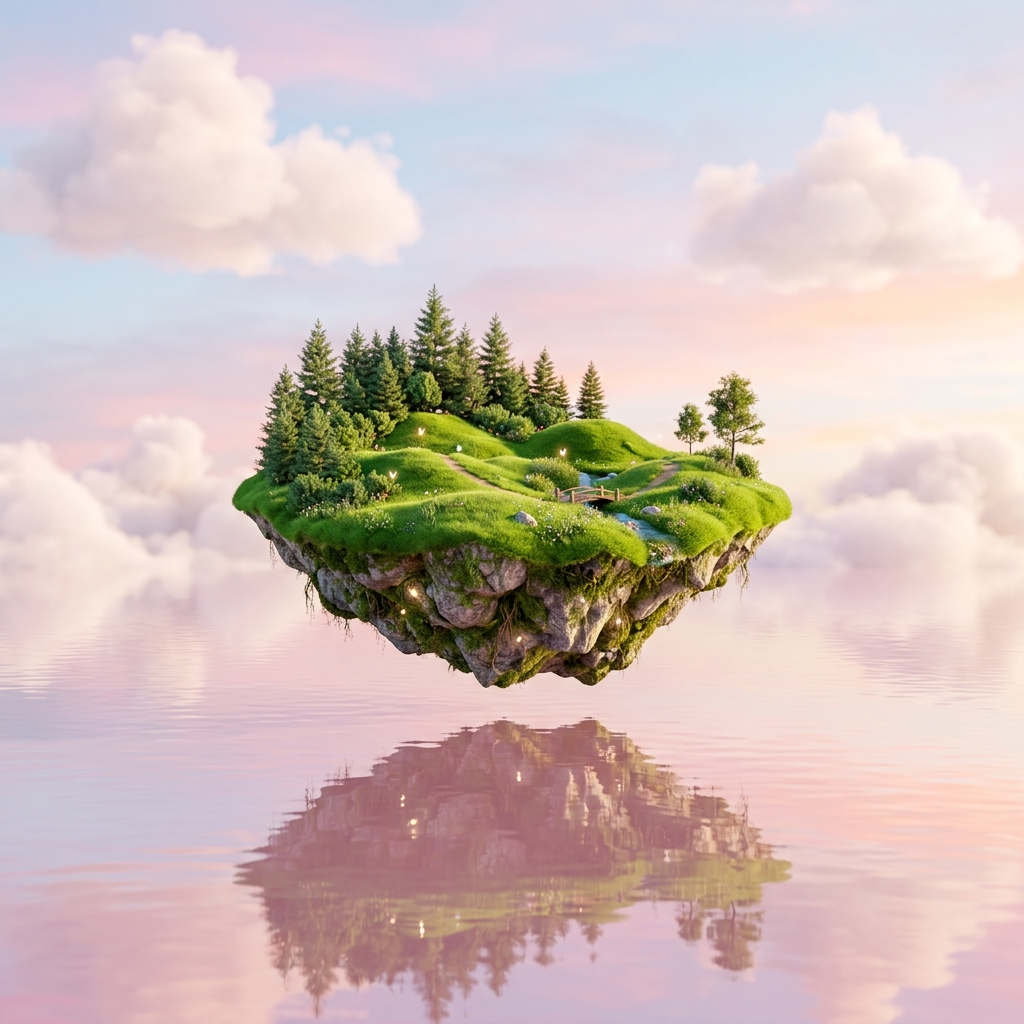
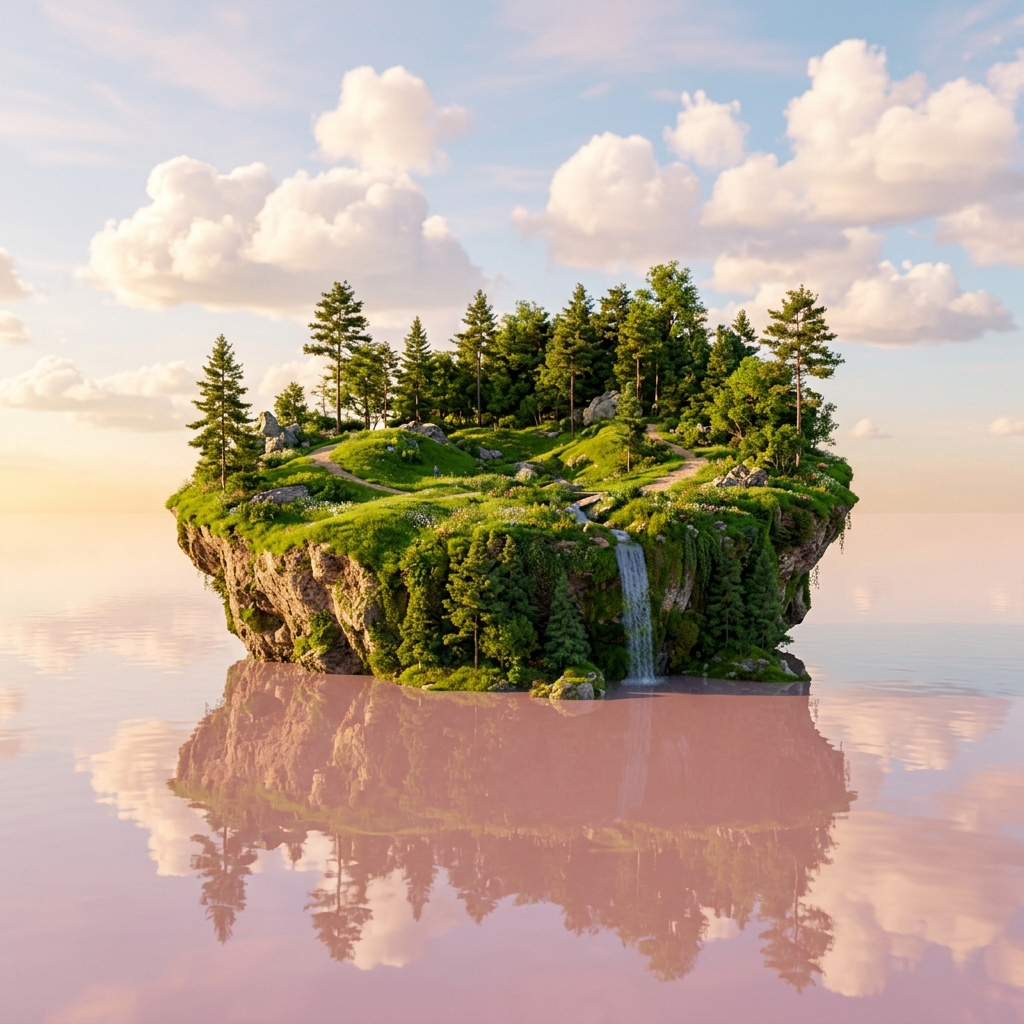
fix(waitlist): HD background image, centered email, fixed alignment and padding

diff --git a/src/components/auth/WaitlistGate.tsx b/src/components/auth/WaitlistGate.tsx
@@ -101,31 +101,22 @@ export function WaitlistGate({ children }: { children: React.ReactNode }) {
         fontFamily: "'Inter', -apple-system, BlinkMacSystemFont, sans-serif",
         userSelect: 'none'
       }}>
-        {/* Background Image — Light dreamy landscape */}
+        {/* Background Image — High quality, sharp, no blur */}
         <div style={{ position: 'absolute', inset: 0, zIndex: 0 }}>
           <img 
             src="/waitlist-bg.png" 
             alt="Background" 
-            style={{ width: '100%', height: '100%', objectFit: 'cover' }}
+            style={{
+              width: '100%', height: '100%', objectFit: 'cover',
+              imageRendering: 'auto'
+            }}
           />
-          {/* Soft white vignette overlay to blend with card */}
+          {/* Very subtle edge fade only — keep image sharp and vivid */}
           <div style={{
             position: 'absolute', inset: 0,
-            background: 'radial-gradient(circle at center, rgba(255,255,255,0.15) 0%, rgba(255,255,255,0.5) 60%, rgba(245,240,255,0.85) 100%)'
-          }} />
-          <div style={{
-            position: 'absolute', inset: 0,
-            background: 'linear-gradient(to bottom, rgba(255,255,255,0.3) 0%, transparent 40%, rgba(245,240,255,0.6) 100%)'
+            background: 'radial-gradient(ellipse 120% 120% at center, transparent 40%, rgba(255,255,255,0.35) 85%, rgba(248,245,255,0.6) 100%)'
           }} />
         </div>
-
-        {/* Soft ambient glow behind card */}
-        <div style={{
-          position: 'absolute', left: '50%', top: '50%', zIndex: 0,
-          width: 420, height: 420, transform: 'translate(-50%, -50%)',
-          borderRadius: '50%', background: 'rgba(124, 58, 237, 0.06)',
-          filter: 'blur(100px)', pointerEvents: 'none'
-        }} />
 
         {/* Main Glass Card */}
         <motion.div 
@@ -134,13 +125,13 @@ export function WaitlistGate({ children }: { children: React.ReactNode }) {
           transition={{ duration: 0.6, ease: [0.16, 1, 0.3, 1] }}
           style={{
             position: 'relative', zIndex: 10,
-            width: '100%', maxWidth: 440,
-            borderRadius: 24, padding: 36,
-            background: 'rgba(255, 255, 255, 0.82)',
-            backdropFilter: 'blur(24px) saturate(180%)',
-            WebkitBackdropFilter: 'blur(24px) saturate(180%)',
-            border: '1px solid rgba(255, 255, 255, 0.6)',
-            boxShadow: '0 24px 48px -12px rgba(0, 0, 0, 0.08), 0 0 0 1px rgba(0,0,0,0.03)',
+            width: '100%', maxWidth: 420,
+            borderRadius: 24, padding: '32px 28px',
+            background: 'rgba(255, 255, 255, 0.88)',
+            backdropFilter: 'blur(20px) saturate(180%)',
+            WebkitBackdropFilter: 'blur(20px) saturate(180%)',
+            border: '1px solid rgba(255, 255, 255, 0.7)',
+            boxShadow: '0 20px 60px -15px rgba(0, 0, 0, 0.12), 0 0 0 1px rgba(0,0,0,0.02)',
             margin: 16
           }}
         >
@@ -237,82 +228,59 @@ export function WaitlistGate({ children }: { children: React.ReactNode }) {
   return renderContainer(
     <div style={{ display: 'flex', flexDirection: 'column', alignItems: 'center', textAlign: 'center' }}>
       {/* Icon Badge */}
-      <div style={{ position: 'relative', marginBottom: 20 }}>
+      <div style={{ position: 'relative', marginBottom: 18 }}>
         <div style={{
-          width: 60, height: 60, borderRadius: '50%', display: 'flex', alignItems: 'center', justifyContent: 'center',
+          width: 56, height: 56, borderRadius: '50%', display: 'flex', alignItems: 'center', justifyContent: 'center',
           background: 'linear-gradient(135deg, #ede9fe, #ddd6fe)',
-          boxShadow: '0 8px 24px -6px rgba(124, 58, 237, 0.2)'
+          boxShadow: '0 6px 20px -4px rgba(124, 58, 237, 0.2)'
         }}>
-          <Sparkles style={{ width: 28, height: 28, color: '#7c3aed' }} />
+          <Sparkles style={{ width: 26, height: 26, color: '#7c3aed' }} />
         </div>
         <span style={{
-          position: 'absolute', top: -2, right: -2,
-          width: 14, height: 14, borderRadius: '50%',
+          position: 'absolute', top: -1, right: -1,
+          width: 13, height: 13, borderRadius: '50%',
           background: '#22c55e', border: '2.5px solid white',
           boxShadow: '0 2px 6px rgba(34, 197, 94, 0.4)'
         }} />
       </div>
 
       <h1 style={{
-        fontSize: 26, fontWeight: 800, color: '#0f172a',
-        margin: '0 0 6px 0', letterSpacing: '-0.025em'
+        fontSize: 24, fontWeight: 800, color: '#0f172a',
+        margin: '0 0 4px 0', letterSpacing: '-0.025em'
       }}>
-        You're on the Waitlist!
+        You're on the Noska Waitlist!
       </h1>
-      <p style={{ fontSize: 14, color: '#64748b', margin: '0 0 24px 0' }}>
+      <p style={{ fontSize: 13.5, color: '#64748b', margin: '0 0 20px 0' }}>
         Thanks for your interest in Noska
       </p>
 
-      {/* Position or Status Card */}
-      {position ? (
-        <div style={{
-          width: '100%', borderRadius: 16, padding: '20px 24px',
-          background: 'linear-gradient(135deg, #f5f3ff, #ede9fe)',
-          border: '1px solid #e9e5ff', marginBottom: 16, textAlign: 'center'
-        }}>
-          <div style={{ fontSize: 11, fontWeight: 700, textTransform: 'uppercase', letterSpacing: '0.06em', color: '#7c3aed', marginBottom: 6 }}>
-            Your Queue Position
-          </div>
-          <div style={{ fontSize: 42, fontWeight: 900, color: '#4c1d95', letterSpacing: '-0.03em', lineHeight: 1.1 }}>
-            #{position}
-          </div>
-          <p style={{ fontSize: 12, color: '#8b5cf6', marginTop: 6 }}>We're letting people in in batches</p>
-        </div>
-      ) : (
-        <div style={{
-          width: '100%', borderRadius: 16, padding: '18px 24px',
-          background: '#f8fafc', border: '1px solid #e2e8f0', marginBottom: 16
-        }}>
-          <div style={{ fontSize: 11, fontWeight: 700, textTransform: 'uppercase', letterSpacing: '0.06em', color: '#94a3b8', marginBottom: 4 }}>
-            Status
-          </div>
-          <div style={{ fontSize: 16, fontWeight: 700, color: '#1e293b' }}>Pending Approval</div>
-          <p style={{ fontSize: 12, color: '#94a3b8', marginTop: 4 }}>Our team is reviewing applications</p>
-        </div>
-      )}
-
-      {/* Details Box */}
+      {/* Status Card — clean, no queue position */}
       <div style={{
-        width: '100%', borderRadius: 14, padding: '14px 18px',
-        background: '#f8fafc', border: '1px solid #f1f5f9',
-        display: 'flex', flexDirection: 'column', gap: 10,
-        marginBottom: 20
+        width: '100%', borderRadius: 14, padding: '16px 20px',
+        background: '#f8fafc', border: '1px solid #e2e8f0', marginBottom: 12,
+        textAlign: 'center'
       }}>
-        <div style={{ display: 'flex', alignItems: 'center', gap: 10, fontSize: 13 }}>
-          <Mail style={{ width: 15, height: 15, color: '#94a3b8', flexShrink: 0 }} />
-          <span style={{ color: '#475569', fontWeight: 500, overflow: 'hidden', textOverflow: 'ellipsis', whiteSpace: 'nowrap' }}>
-            {clerkUser?.emailAddresses?.[0]?.emailAddress}
-          </span>
+        <div style={{ fontSize: 10, fontWeight: 700, textTransform: 'uppercase' as const, letterSpacing: '0.08em', color: '#94a3b8', marginBottom: 4 }}>
+          Status
         </div>
-        {joinedDate && (
-          <div style={{ display: 'flex', alignItems: 'center', gap: 10, fontSize: 13 }}>
-            <Calendar style={{ width: 15, height: 15, color: '#94a3b8', flexShrink: 0 }} />
-            <span style={{ color: '#475569' }}>Applied on {joinedDate}</span>
-          </div>
-        )}
+        <div style={{ fontSize: 15, fontWeight: 700, color: '#1e293b' }}>Pending Approval</div>
+        <p style={{ fontSize: 12, color: '#94a3b8', marginTop: 3, marginBottom: 0 }}>Our team is reviewing applications.</p>
       </div>
 
-      <p style={{ fontSize: 12, color: '#94a3b8', lineHeight: 1.6, maxWidth: 300, marginBottom: 24 }}>
+      {/* Email Pill — Centered */}
+      <div style={{
+        width: '100%', borderRadius: 14, padding: '12px 16px',
+        background: '#f8fafc', border: '1px solid #f1f5f9',
+        display: 'flex', alignItems: 'center', justifyContent: 'center',
+        gap: 8, marginBottom: 16
+      }}>
+        <Mail style={{ width: 14, height: 14, color: '#94a3b8', flexShrink: 0 }} />
+        <span style={{ color: '#475569', fontWeight: 500, fontSize: 13 }}>
+          {clerkUser?.emailAddresses?.[0]?.emailAddress}
+        </span>
+      </div>
+
+      <p style={{ fontSize: 12, color: '#94a3b8', lineHeight: 1.6, maxWidth: 280, margin: '0 auto 20px auto' }}>
         An admin needs to approve your access. You'll receive a confirmation email when you're approved.
       </p>
 
@@ -321,15 +289,15 @@ export function WaitlistGate({ children }: { children: React.ReactNode }) {
         onClick={() => clerk.signOut()} 
         style={{
           display: 'inline-flex', alignItems: 'center', gap: 8,
-          padding: '10px 24px', borderRadius: 12,
+          padding: '9px 22px', borderRadius: 10,
           border: '1px solid #e2e8f0', background: '#ffffff',
-          color: '#475569', fontSize: 14, fontWeight: 600, cursor: 'pointer',
+          color: '#475569', fontSize: 13.5, fontWeight: 600, cursor: 'pointer',
           transition: 'all 0.15s', boxShadow: '0 1px 3px rgba(0,0,0,0.04)'
         }}
         onMouseEnter={(e) => { e.currentTarget.style.background = '#f8fafc'; e.currentTarget.style.borderColor = '#cbd5e1'; }}
         onMouseLeave={(e) => { e.currentTarget.style.background = '#ffffff'; e.currentTarget.style.borderColor = '#e2e8f0'; }}
       >
-        <LogOut style={{ width: 15, height: 15 }} /> Sign out
+        <LogOut style={{ width: 14, height: 14 }} /> Sign out
       </button>
     </div>
   );
